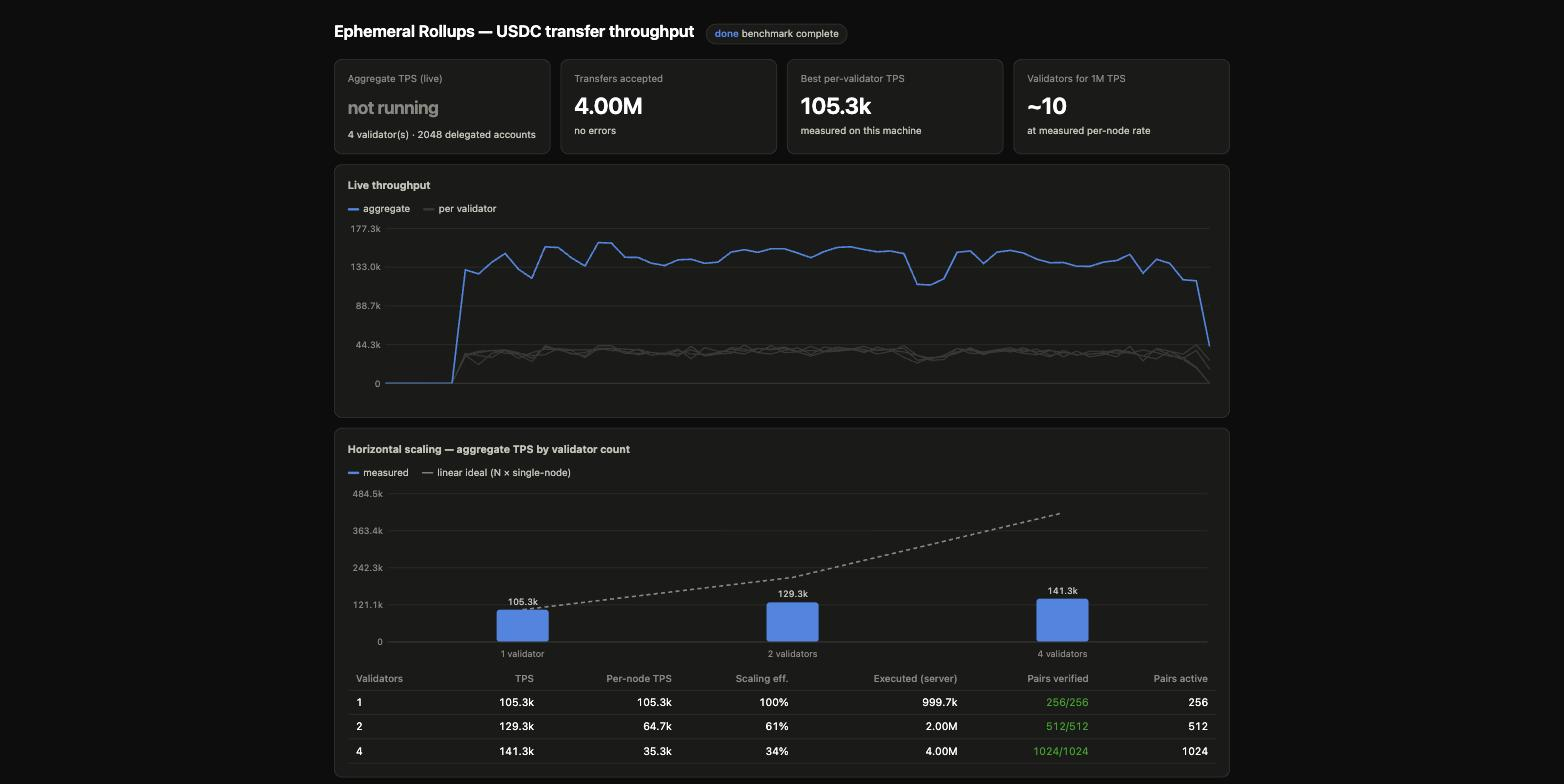
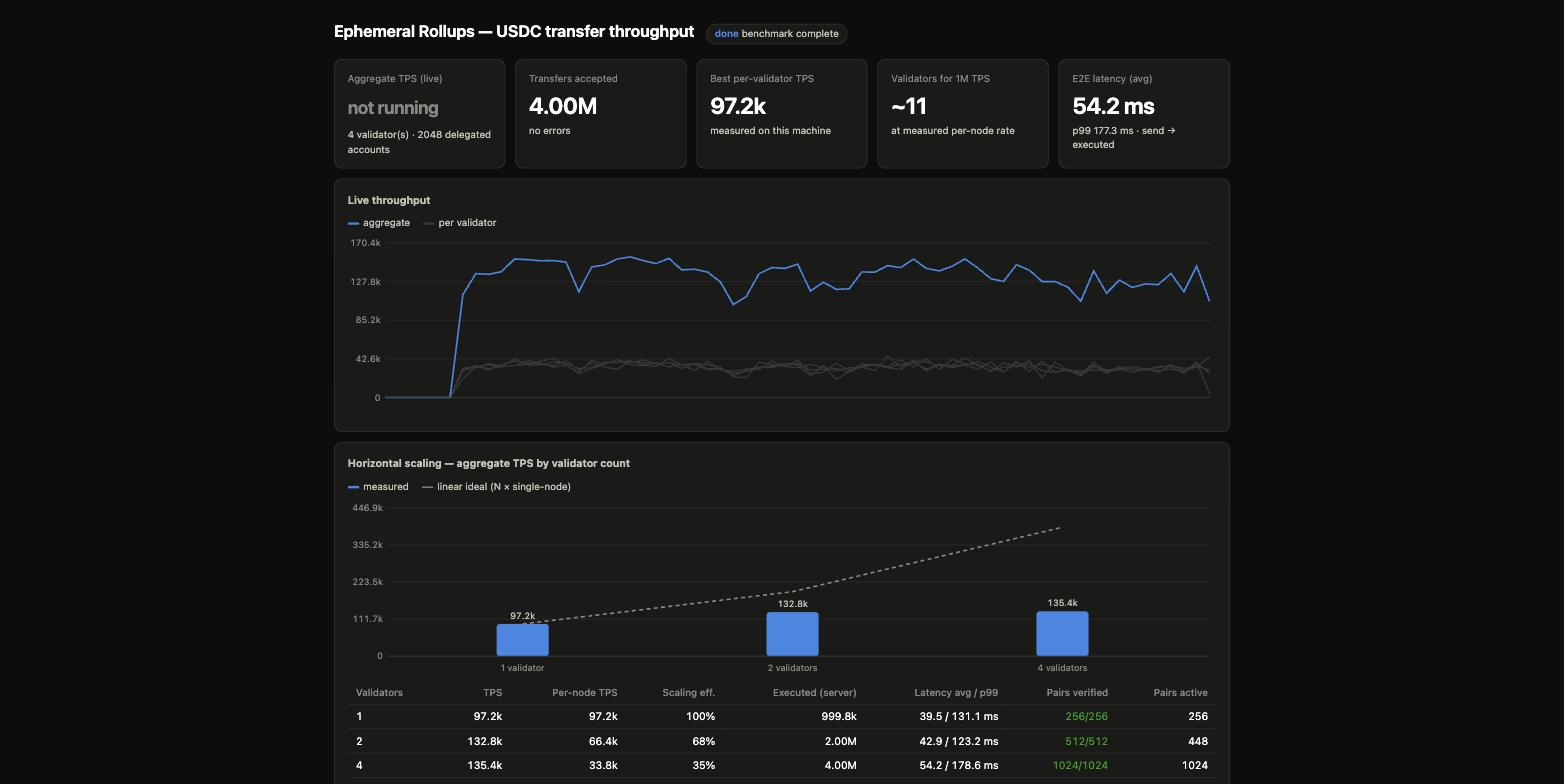
Add end-to-end latency measurement, platform notes, repo move
- Latency probes: per-validator reserved pair sends non-skipPreflight
  transfers during load; RPC responds after execution, so the roundtrip is
  send -> executed. Reported as avg/p99 in results, dashboard, results.json.
- Measured: ~0.5ms avg at light load; 35-70ms at saturation (queueing).
- README: results refreshed with latency column, platform notes (macOS vs
  bare-metal Linux, compiler tuning guidance), clone URL moved to
  magicblock-labs.
- setup.sh pins the validated magicblock-validator commit.

diff --git a/bench/dashboard.html b/bench/dashboard.html
@@ -115,6 +115,11 @@
       <div class="value" id="nodes-1m">&ndash;</div>
       <div class="sub">at measured per-node rate</div>
     </div>
+    <div class="tile">
+      <div class="label">E2E latency (avg)</div>
+      <div class="value" id="latency">&ndash;</div>
+      <div class="sub" id="latency-p99">send &rarr; executed, probe txs</div>
+    </div>
   </div>
 
   <div class="panel">
@@ -237,11 +242,13 @@ function drawSweep(sweep) {
 
   table.hidden = false;
   table.innerHTML = "<tr><th>Validators</th><th>TPS</th><th>Per-node TPS</th>" +
-    "<th>Scaling eff.</th><th>Executed (server)</th><th>Pairs verified</th><th>Pairs active</th></tr>" +
+    "<th>Scaling eff.</th><th>Executed (server)</th><th>Latency avg / p99</th><th>Pairs verified</th><th>Pairs active</th></tr>" +
     sweep.map(p => `<tr><td>${p.validators}</td><td>${fmt(p.tps)}</td>` +
       `<td>${fmt(p.per_node_tps)}</td>` +
       `<td>${(p.tps / (base * p.validators) * 100).toFixed(0)}%</td>` +
       `<td>${p.executed == null ? "n/a" : fmt(p.executed)}</td>` +
+      `<td>${p.latency_avg_ms == null ? "n/a"
+        : p.latency_avg_ms.toFixed(1) + " / " + p.latency_p99_ms.toFixed(1) + " ms"}</td>` +
       `<td class="${p.failed_pairs ? "err" : "ok"}">${p.verified_pairs}/${p.verified_pairs + p.failed_pairs}</td>` +
       `<td>${p.changed_pairs}</td></tr>`).join("");
 }
@@ -271,6 +278,17 @@ async function tick() {
     document.getElementById("per-node").textContent = bestPerNode ? fmt(bestPerNode) : "–";
     document.getElementById("nodes-1m").textContent =
       bestPerNode ? "~" + Math.ceil(1e6 / bestPerNode) : "–";
+    const latShards = s.shards.filter(x => x.latency_avg_ms != null);
+    const latSamples = latShards.reduce((a, x) => a + x.latency_samples, 0);
+    const latAvg = latSamples
+      ? latShards.reduce((a, x) => a + x.latency_avg_ms * x.latency_samples, 0) / latSamples : 0;
+    const latP99 = latShards.length
+      ? Math.max(...latShards.map(x => x.latency_p99_ms)) : 0;
+    document.getElementById("latency").textContent =
+      latSamples ? latAvg.toFixed(1) + " ms" : "–";
+    document.getElementById("latency-p99").textContent = latSamples
+      ? `p99 ${latP99.toFixed(1)} ms · send → executed`
+      : "send → executed, probe txs";
     const cores = s.cores || navigator.hardwareConcurrency || 0;
     const aggNow = running ? current
       : (s.history.length ? Math.max(...s.history.map(p => p.aggregate_tps)) : 0);
@@ -287,6 +305,7 @@ async function tick() {
       return `<div class="card"><div class="name">er-${i}</div>` +
         `<div class="tps">${shown ? fmt(shown) : "–"} <span style="font-size:12px;color:var(--muted)">${label}</span></div>` +
         `<div class="meta">${fmt(x.accepted)} accepted` +
+        (x.latency_avg_ms != null ? ` · ${x.latency_avg_ms.toFixed(1)}ms avg` : "") +
         (x.errors ? ` · <span class="err">${fmt(x.errors)} err</span>` : "") + `</div></div>`;
     }).join("") + machineCard;
     lastHistory = s.history; lastSweep = s.sweep;

diff --git a/bench/src/main.rs b/bench/src/main.rs
@@ -65,6 +65,27 @@ struct Args {
 
 static CHILD_PIDS: Mutex<Vec<u32>> = Mutex::new(Vec::new());
 
+/// Starts one end-to-end latency probe per validator for the load window.
+fn spawn_probes(
+    ers: &[ErHandle],
+    shards: &[Arc<Shard>],
+    stats: &[Arc<stats::ShardStats>],
+    stop: &Arc<AtomicBool>,
+) -> Vec<tokio::task::JoinHandle<()>> {
+    ers.iter()
+        .zip(shards)
+        .zip(stats)
+        .map(|((er, shard), stats)| {
+            tokio::spawn(load::latency_probe(
+                er.rpc_url(),
+                shard.clone(),
+                stats.clone(),
+                stop.clone(),
+            ))
+        })
+        .collect()
+}
+
 fn register_pid(pid: u32) {
     if let Ok(mut pids) = CHILD_PIDS.lock() {
         pids.push(pid);
@@ -244,6 +265,7 @@ async fn run(args: Args) -> Result<()> {
             .collect::<Result<_>>()?;
 
             state.set_phase("load", &format!("blasting pre-signed transfers at {n} validator(s)"));
+            let probes = spawn_probes(&ers, &shards, &shard_stats, &stop);
             let start = Instant::now();
             let results = join_all(ers.iter().zip(batches).zip(&shard_stats).map(
                 |((er, txs), stats)| {
@@ -260,6 +282,7 @@ async fn run(args: Args) -> Result<()> {
             let elapsed = start.elapsed().as_secs_f64();
             stop.store(true, Ordering::Relaxed);
             let _ = sampler.await;
+            join_all(probes).await;
             for r in results {
                 r?;
             }
@@ -271,6 +294,7 @@ async fn run(args: Args) -> Result<()> {
                 batch_size: args.batch_size,
                 signer_threads: args.signer_threads,
             };
+            let probes = spawn_probes(&ers, &shards, &shard_stats, &stop);
             let start = Instant::now();
             let results = join_all(ers.iter().zip(&shards).zip(&shard_stats).map(
                 |((er, shard), stats)| {
@@ -287,6 +311,7 @@ async fn run(args: Args) -> Result<()> {
             let elapsed = start.elapsed().as_secs_f64();
             stop.store(true, Ordering::Relaxed);
             let _ = sampler.await;
+            join_all(probes).await;
             for r in results {
                 r?;
             }
@@ -321,6 +346,12 @@ async fn run(args: Args) -> Result<()> {
             changed_pairs += changed;
         }
 
+        let latency: Vec<f64> = shard_stats
+            .iter()
+            .flat_map(|s| s.latency_samples())
+            .collect();
+        let latency = stats::latency_summary(&latency);
+
         let accepted: u64 = shard_stats.iter().map(|s| s.accepted()).sum();
         let submitted: u64 = shard_stats.iter().map(|s| s.submitted()).sum();
         // Prefer the server-side executed count: client acceptance overcounts
@@ -335,11 +366,16 @@ async fn run(args: Args) -> Result<()> {
             verified_pairs: ok_pairs,
             failed_pairs,
             changed_pairs,
+            latency_avg_ms: latency.map(|(avg, _)| avg),
+            latency_p99_ms: latency.map(|(_, p99)| p99),
         };
         let line = format!(
-            "validators={n} tps={tps:.0} per_node={:.0} accepted={accepted}/{submitted} executed={} pairs_ok={ok_pairs} pairs_failed={failed_pairs} pairs_active={changed_pairs}",
+            "validators={n} tps={tps:.0} per_node={:.0} accepted={accepted}/{submitted} executed={} pairs_ok={ok_pairs} pairs_failed={failed_pairs} pairs_active={changed_pairs} latency={}",
             point.per_node_tps,
             executed.map_or("n/a".to_string(), |e| e.to_string()),
+            latency.map_or("n/a".to_string(), |(avg, p99)| format!(
+                "{avg:.1}ms avg / {p99:.1}ms p99"
+            )),
         );
         println!("[result] {line}");
         report_lines.push(line);

diff --git a/bench/src/load.rs b/bench/src/load.rs
@@ -29,6 +29,51 @@ impl Shard {
     pub fn pairs(&self) -> usize {
         self.users.len() / 2
     }
+    /// Pairs used by the bulk load; the last pair is reserved for the
+    /// end-to-end latency probe so probe transactions never queue behind
+    /// load transactions on the same accounts.
+    pub fn load_pairs(&self) -> usize {
+        (self.pairs() - 1).max(1)
+    }
+    fn probe_pair(&self) -> usize {
+        self.pairs() - 1
+    }
+}
+
+/// Measures end-to-end latency during load: every ~200ms sends one transfer
+/// on the shard's reserved probe pair without skipPreflight, so the RPC
+/// response returns only after the transaction has executed. The HTTP
+/// roundtrip is therefore queue wait + execution + notification.
+pub async fn latency_probe(
+    er_url: String,
+    shard: Arc<Shard>,
+    stats: Arc<ShardStats>,
+    stop: Arc<AtomicBool>,
+) {
+    let rpc = RpcClient::new_with_timeout(er_url, Duration::from_secs(30));
+    let p = shard.probe_pair();
+    let mut i: u64 = 0;
+    while !stop.load(Ordering::Relaxed) {
+        i += 1;
+        let Ok(blockhash) = rpc.get_latest_blockhash().await else {
+            tokio::time::sleep(Duration::from_millis(500)).await;
+            continue;
+        };
+        let (from_idx, src, dst) = if i % 2 == 0 {
+            (2 * p, shard.atas[2 * p], shard.atas[2 * p + 1])
+        } else {
+            (2 * p + 1, shard.atas[2 * p + 1], shard.atas[2 * p])
+        };
+        let amount = 1 + (i % 995);
+        let Ok(tx) = transfer_tx(&shard.users[from_idx], &src, &dst, amount, blockhash) else {
+            continue;
+        };
+        let start = Instant::now();
+        if rpc.send_transaction(&tx).await.is_ok() {
+            stats.record_latency(start.elapsed().as_secs_f64() * 1e3);
+        }
+        tokio::time::sleep(Duration::from_millis(200)).await;
+    }
 }
 
 /// Materializes every projected ATA on the ER (triggers cloning), sends one
@@ -163,7 +208,7 @@ pub async fn run_load(
     let receiver = Arc::new(tokio::sync::Mutex::new(tx_receiver));
 
     // Signer threads: each owns a disjoint slice of pairs.
-    let pairs = shard.pairs();
+    let pairs = shard.load_pairs();
     let threads = config.signer_threads.max(1).min(pairs);
     let mut signer_handles = Vec::new();
     for t in 0..threads {
@@ -307,7 +352,7 @@ pub async fn presign(
 ) -> Result<Arc<Vec<String>>> {
     let rpc = RpcClient::new_with_timeout(er_url, Duration::from_secs(10));
     let blockhash = rpc.get_latest_blockhash().await?;
-    let pairs = shard.pairs();
+    let pairs = shard.load_pairs();
     let threads = threads.max(1);
     tokio::task::spawn_blocking(move || {
         let stripes: Vec<Vec<String>> = std::thread::scope(|scope| {

diff --git a/bench/src/stats.rs b/bench/src/stats.rs
@@ -16,6 +16,8 @@ pub struct ShardStats {
     pub errors: AtomicU64,
     /// Executed count scraped from the validator's Prometheus endpoint.
     pub executed: AtomicU64,
+    /// End-to-end latency samples (ms) from the probe transactions.
+    pub latency_ms: Mutex<Vec<f64>>,
 }
 
 impl ShardStats {
@@ -31,6 +33,26 @@ impl ShardStats {
     pub fn executed(&self) -> u64 {
         self.executed.load(Ordering::Relaxed)
     }
+    pub fn record_latency(&self, ms: f64) {
+        if let Ok(mut samples) = self.latency_ms.lock() {
+            samples.push(ms);
+        }
+    }
+    pub fn latency_samples(&self) -> Vec<f64> {
+        self.latency_ms.lock().map(|s| s.clone()).unwrap_or_default()
+    }
+}
+
+/// (avg, p99) over a set of latency samples, if any.
+pub fn latency_summary(samples: &[f64]) -> Option<(f64, f64)> {
+    if samples.is_empty() {
+        return None;
+    }
+    let avg = samples.iter().sum::<f64>() / samples.len() as f64;
+    let mut sorted = samples.to_vec();
+    sorted.sort_by(|a, b| a.total_cmp(b));
+    let p99 = sorted[((sorted.len() - 1) as f64 * 0.99) as usize];
+    Some((avg, p99))
 }
 
 #[derive(Clone, Serialize)]
@@ -50,6 +72,8 @@ pub struct SweepPoint {
     pub verified_pairs: usize,
     pub failed_pairs: usize,
     pub changed_pairs: usize,
+    pub latency_avg_ms: Option<f64>,
+    pub latency_p99_ms: Option<f64>,
 }
 
 #[derive(Clone, Serialize, Default)]

diff --git a/bench/src/dashboard.rs b/bench/src/dashboard.rs
@@ -41,11 +41,16 @@ async fn stats(State(state): State<Arc<AppState>>) -> Json<serde_json::Value> {
             shards
                 .iter()
                 .map(|s| {
+                    let samples = s.latency_samples();
+                    let latency = crate::stats::latency_summary(&samples);
                     json!({
                         "submitted": s.submitted(),
                         "accepted": s.accepted(),
                         "errors": s.errors(),
                         "executed": s.executed(),
+                        "latency_avg_ms": latency.map(|(avg, _)| avg),
+                        "latency_p99_ms": latency.map(|(_, p99)| p99),
+                        "latency_samples": samples.len(),
                     })
                 })
                 .collect()

diff --git a/README.md b/README.md
@@ -1,17 +1,18 @@
 # er-usdc-scaling-poc
 
 **Can ephemeral rollups reach 1M TPS for USDC transfers?** This PoC answers
-empirically: a single MagicBlock ephemeral validator executes **~105k
-USDC-transfer TPS end-to-end**, ephemeral validators share no state and no
-consensus, and users shard cleanly across them — so **1M TPS ≈ 10 validators**
-with payment cohorts distributed across the fleet.
+empirically: a single MagicBlock ephemeral validator executes **~100k
+USDC-transfer TPS end-to-end** (sub-millisecond latency below saturation),
+ephemeral validators share no state and no consensus, and users shard cleanly
+across them — so **1M TPS ≈ 10–11 validators** with payment cohorts
+distributed across the fleet.
 
 ![Dashboard](docs/dashboard.jpg)
 
 ## Quickstart
 
 ```sh
-git clone https://github.com/gabrielePicco/er-usdc-scaling-poc.git
+git clone https://github.com/magicblock-labs/er-usdc-scaling-poc.git
 cd er-usdc-scaling-poc
 ./setup.sh        # fetches magicblock-validator (dev branch) + builds everything
 ./run.sh          # runs the 1→2→4 validator sweep, opens the live dashboard
@@ -46,19 +47,25 @@ Nothing is simulated — the benchmark drives the production delegation flow:
 5. Counts TPS **server-side** (transactions that entered processing minus
    sequencer/execution failures, from the validators' Prometheus endpoints)
    and verifies **balance conservation and activity for every pair** afterwards.
+6. Measures **end-to-end latency** while the load runs: each validator has a
+   reserved probe pair on which a transfer is sent every ~200ms *without*
+   `skipPreflight`, so the RPC responds only after execution — the HTTP
+   roundtrip is send → executed (queue wait + execution) under load.
 
 ## Measured results (Apple M5 Max, 18 cores)
 
-30s per point, 512 users (256 disjoint pairs) per shard, pre-signed load,
-every pair balance-verified:
+512 users (256 disjoint pairs) per shard, 1M pre-signed transfers per
+validator, every pair balance-verified. TPS is the server-side executed count;
+latency is send → executed from the probe transactions:
 
-| Validators | Aggregate TPS | Per-node TPS | Verified pairs |
-|-----------:|--------------:|-------------:|---------------:|
-| 1          | **105.3k**    | 105.3k       | 256/256 |
-| 2          | 129.3k        | 64.7k        | 512/512 |
-| 4          | 141.3k        | 35.3k        | 1024/1024 |
+| Validators | Aggregate TPS | Per-node TPS | Latency avg / p99 | Verified pairs |
+|-----------:|--------------:|-------------:|------------------:|---------------:|
+| 1          | **97.2k**     | 97.2k        | 39.5 / 131 ms     | 256/256 |
+| 2          | 132.8k        | 66.4k        | 42.9 / 123 ms     | 512/512 |
+| 4          | 135.4k        | 33.8k        | 54.2 / 179 ms     | 1024/1024 |
 
-**At the measured 105k TPS/node, 1M TPS ≈ 10 validators.**
+Single-node throughput sits at ~100k TPS (97–106k across runs on this
+machine). **At ~100k TPS/node, 1M TPS ≈ 10–11 validators.**
 
 Reading the plateau correctly: at N=1 the *validator* is the bottleneck (all
 executor threads busy, sequencer backpressure). At N≥2 the single benchmark
@@ -67,6 +74,38 @@ signing, HTTP, and 4 co-located validators contend for the same 18 cores.
 Per-node capacity on dedicated hardware is *at least* the single-validator
 number, and aggregate capacity is `N × per-node` because the validators share
 nothing.
+
+### End-to-end latency
+
+Latency is measured by probe transfers sent without `skipPreflight` while the
+load runs, so each sample is a full send → executed roundtrip:
+
+- **Light load: ~0.5 ms avg / 0.7 ms p99.** The execution path itself is
+  sub-millisecond.
+- **At saturation: ~35–70 ms avg.** That is queue wait, not execution — at
+  ~100k TPS an average latency of ~37 ms corresponds (Little's law) to ~3.7k
+  transactions in flight ahead of the probe in the ingestion + sequencer
+  pipeline. Push a validator to its throughput ceiling and latency is the
+  queue you chose to build; run it below the ceiling and transfers execute in
+  under a millisecond.
+
+### Platform notes
+
+These numbers come from a MacBook (Apple M5 Max) running stock
+`cargo build --release`. Production benchmarking and tuning will happen on a
+dedicated bare-metal Linux machine, which is expected to do better:
+
+- **A quiet, dedicated box.** macOS background services (`fseventsd`,
+  `syspolicyd`, Spotlight) measurably swung results by ~20% during these runs;
+  a dedicated Linux host has none of that, plus core pinning and a performance
+  governor.
+- **Linux-only code paths.** The engine's ledger applies `fadvise` access
+  hints only on Linux.
+- **Compiler tuning.** Build on the target machine with
+  `RUSTFLAGS="-C target-cpu=native"` and `lto`/`codegen-units = 1` in the
+  release profile. On Apple silicon `target-cpu=native` showed no measurable
+  gain (the default target already covers the M-series feature set); x86
+  servers have more to gain since baseline x86-64 codegen predates AVX2.
 
 ### Bottleneck decomposition (single validator)
 
